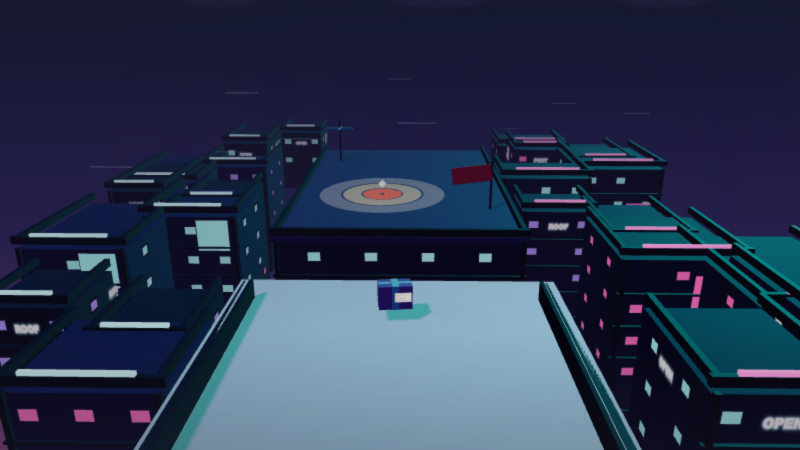
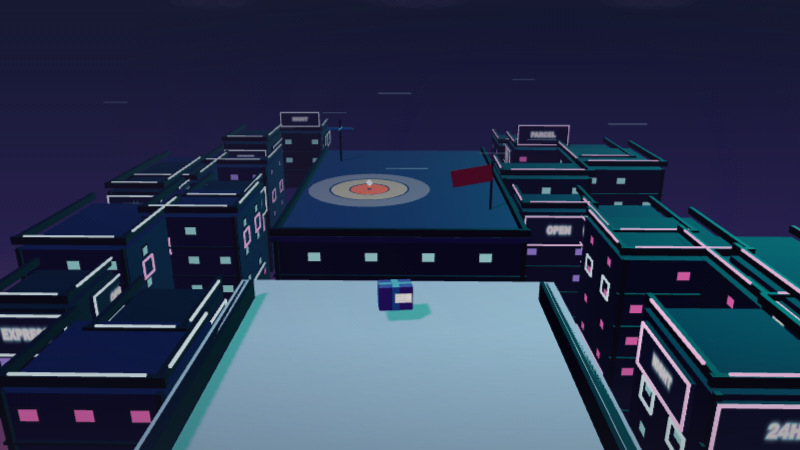
Brighten the neon district streets

diff --git a/crazygames/world.js b/crazygames/world.js
@@ -618,28 +618,40 @@ function addArchitectureDetails(group, kind, width, height, depth, options) {
   } else if (kind === 'neon') {
     const neonColor = index % 2 ? 0xff4fa3 : 0x35f5e4
     if (streetFace && index % 4 < 2) {
-      const labels = ['OPEN', 'POST', 'ROOF']
-      const texture = makeNeonSignTexture(labels[index % labels.length])
-      const sideSign = new THREE.Mesh(
-        new THREE.PlaneGeometry(Math.min(2.4, depth * 0.58), Math.min(0.9, height * 0.17)),
-        new THREE.MeshBasicMaterial({ map: texture, transparent: true, depthWrite: false }),
-      )
-      sideSign.position.set(streetFace * (width / 2 + 0.095), top - 0.72, 0)
-      sideSign.rotation.y = streetFace > 0 ? Math.PI / 2 : -Math.PI / 2
-      group.add(sideSign)
-      const frontSign = new THREE.Mesh(
-        new THREE.PlaneGeometry(Math.min(2.5, width * 0.76), Math.min(0.9, height * 0.17)),
-        new THREE.MeshBasicMaterial({ map: texture, transparent: true, depthWrite: false }),
-      )
-      frontSign.position.set(0, top - 0.72, depth / 2 + 0.095)
-      group.add(frontSign)
-    } else {
-      const signMaterial = new THREE.MeshBasicMaterial({ color: neonColor })
-      const sign = new THREE.Mesh(new THREE.PlaneGeometry(Math.min(1.35, width * 0.44), Math.min(2.0, height * 0.34)), signMaterial)
-      sign.position.set(width * 0.24, Math.min(top - 0.8, 1.2), depth / 2 + 0.085)
-      group.add(sign)
+      const labels = ['NIGHT', 'PARCEL', 'EXPRESS', '24H', 'AIRMAIL', 'OPEN']
+      const frontSignY = index < 2 ? top + 1.02 : top - 0.86
+      addNeonBillboard(group, {
+        text: labels[index % labels.length],
+        width: Math.min(3.45, width * 0.9),
+        height: Math.min(1.26, height * 0.2),
+        color: neonColor,
+        position: [0, frontSignY, depth / 2 + 0.13],
+        axis: 'front',
+      })
+      addNeonBillboard(group, {
+        text: labels[(index + 3) % labels.length],
+        width: Math.min(3.15, depth * 0.68),
+        height: Math.min(1.12, height * 0.18),
+        color: neonColor,
+        position: [streetFace * (width / 2 + 0.13), top - 0.8, 0],
+        axis: streetFace > 0 ? 'right' : 'left',
+      })
     }
-    if (roofDecor) sceneBox(group, [width * 0.7, 0.12, 0.12], neonColor, [0, top + 0.55, depth / 2], { emissive: neonColor, emissiveIntensity: 1.8, castShadow: false })
+    if (roofDecor) {
+      sceneBox(group, [width * 0.82, 0.075, 0.075], neonColor, [0, top + 0.51, depth / 2], { emissive: neonColor, emissiveIntensity: 3.4, castShadow: false })
+      if (streetFace) sceneBox(group, [0.075, 0.075, depth * 0.78], neonColor, [streetFace * (width / 2 + 0.04), top + 0.5, 0], { emissive: neonColor, emissiveIntensity: 3.4, castShadow: false })
+    }
+    if (streetFace) {
+      const opposite = index % 2 ? 0x35f5e4 : 0xff4fa3
+      const windowY = top - Math.min(2.15, height * 0.32)
+      for (const z of [-depth * 0.23, depth * 0.23]) {
+        sceneBox(group, [0.075, 0.68, 0.075], opposite, [streetFace * (width / 2 + 0.05), windowY, z - 0.42], { emissive: opposite, emissiveIntensity: 2.8, castShadow: false })
+        sceneBox(group, [0.075, 0.68, 0.075], opposite, [streetFace * (width / 2 + 0.05), windowY, z + 0.42], { emissive: opposite, emissiveIntensity: 2.8, castShadow: false })
+        sceneBox(group, [0.075, 0.075, 0.9], opposite, [streetFace * (width / 2 + 0.05), windowY + 0.34, z], { emissive: opposite, emissiveIntensity: 2.8, castShadow: false })
+        sceneBox(group, [0.075, 0.075, 0.9], opposite, [streetFace * (width / 2 + 0.05), windowY - 0.34, z], { emissive: opposite, emissiveIntensity: 2.8, castShadow: false })
+      }
+      sceneBox(group, [0.075, 0.08, depth * 0.82], neonColor, [streetFace * (width / 2 + 0.055), -top + 0.34, 0], { emissive: neonColor, emissiveIntensity: 3.1, castShadow: false })
+    }
   } else if (kind === 'glasshouse') {
     if (roofDecor) {
       const glass = sceneBox(group, [width * 0.64, 0.78, depth * 0.42], 0x9adcec, [0, top + 0.52, 0], { opacity: 0.38, castShadow: false })
@@ -665,6 +677,35 @@ function addArchitectureDetails(group, kind, width, height, depth, options) {
       group.add(cap)
     }
   }
+}
+
+function addNeonBillboard(group, { text, width, height, color, position, axis }) {
+  const isFront = axis === 'front'
+  const panelSize = isFront ? [width + 0.24, height + 0.24, 0.12] : [0.12, height + 0.24, width + 0.24]
+  const panel = sceneBox(group, panelSize, 0x080a1c, position, { emissive: 0x12152c, emissiveIntensity: 0.8, castShadow: false })
+  const plane = new THREE.Mesh(
+    new THREE.PlaneGeometry(width, height),
+    new THREE.MeshBasicMaterial({ map: makeNeonSignTexture(text), transparent: true, depthWrite: false }),
+  )
+  plane.position.set(...position)
+  if (isFront) {
+    plane.position.z += 0.071
+  } else {
+    plane.position.x += axis === 'right' ? 0.071 : -0.071
+    plane.rotation.y = axis === 'right' ? Math.PI / 2 : -Math.PI / 2
+  }
+  group.add(plane)
+
+  const tubeOptions = { emissive: color, emissiveIntensity: 4.2, castShadow: false }
+  if (isFront) {
+    for (const y of [-height / 2 - 0.08, height / 2 + 0.08]) sceneBox(group, [width + 0.22, 0.075, 0.08], color, [position[0], position[1] + y, position[2] + 0.09], tubeOptions)
+    for (const x of [-width / 2 - 0.08, width / 2 + 0.08]) sceneBox(group, [0.075, height + 0.22, 0.08], color, [position[0] + x, position[1], position[2] + 0.09], tubeOptions)
+  } else {
+    const faceX = position[0] + (axis === 'right' ? 0.09 : -0.09)
+    for (const y of [-height / 2 - 0.08, height / 2 + 0.08]) sceneBox(group, [0.08, 0.075, width + 0.22], color, [faceX, position[1] + y, position[2]], tubeOptions)
+    for (const z of [-width / 2 - 0.08, width / 2 + 0.08]) sceneBox(group, [0.08, height + 0.22, 0.075], color, [faceX, position[1], position[2] + z], tubeOptions)
+  }
+  panel.renderOrder = 1
 }
 
 function addDistrictEnvironment(group, kind) {
@@ -702,6 +743,14 @@ function addDistrictEnvironment(group, kind) {
     const stripe = new THREE.Mesh(new THREE.BoxGeometry(0.08, 0.01, 1.3), new THREE.MeshBasicMaterial({ color: spec.streetStripe }))
     stripe.position.set(0, -8.76, 8 - i * 4.6)
     group.add(stripe)
+  }
+  if (kind === 'neon') {
+    for (const side of [-1, 1]) {
+      for (let index = 0; index < 10; index += 1) {
+        const color = (index + (side > 0 ? 1 : 0)) % 2 ? 0xff4fa3 : 0x35f5e4
+        sceneBox(group, [0.1, 0.06, 1.75], color, [side * 3.82, -8.71, 8.5 - index * 4.15], { emissive: color, emissiveIntensity: 4.4, castShadow: false })
+      }
+    }
   }
 }
 

diff --git a/doc/crazygames-review.md b/doc/crazygames-review.md
@@ -1,9 +1,9 @@
-# Rooftop Delivery — Crazy Games 第四轮审图修正
+# Rooftop Delivery — Crazy Games 第五轮 Neon 审图修正
 
 ## 本轮范围
 
 - 分支：`cursor/crazygames-guest-7e22`
-- 起点：`cadf1c7`
+- 起点：`ce0b90e`
 - 只修改 Crazy Games 隔离代码、QA 与文档；没有修改宿主运行代码，没有重写抛掷结算。
 - 10 条固定路线、七步教学、八项升级与夜间合约全部保留；没有新增路线、广告、内购或账号。
 
@@ -20,7 +20,7 @@
 | depot | warehouse | 两侧临街装卸门/雨棚与屋顶货箱 |
 | laundry | residential | 两侧住宅顶层窗与屋沿之间的彩色晾衣 |
 | garden | courtyard | 两侧楼顶花箱、矮树与临街窗台绿植 |
-| neon | sign-tower | 两侧楼面可读 `OPEN / POST / ROOF` 字牌、青粉灯带与窗光 |
+| neon | sign-tower | 左右与后方可读 `NIGHT / PARCEL / EXPRESS / 24H / AIRMAIL / OPEN` 大字牌、灯管边框、成排屋沿/窗框/街沿灯管 |
 | glasshouse | glassworks | 两侧屋顶成排透明玻璃棚和框架 |
 | beacon | harbor | 侧后方楼顶灯塔、扫光与沿街暖灯 |
 
@@ -30,6 +30,13 @@
 
 上一轮集中在收件屋顶的箱堆/装卸牌、整排晾衣、四组花箱、`NIGHT POST` 主牌、整座玻璃棚和灯塔已全部移除。收件屋顶现在只保留落点圈、玩法动物、风旗，以及一个水箱或天线；Route 8/10 的两个落点均无遮挡。主题氛围由左右 22 栋街楼与后方楼群承担。
 
+## Neon 灯牌与灯管
+
+- 左右立面与后方楼顶加入多块短大字广告牌；后方两块抬高到屋顶线，800×450 静帧中可与左右牌同时识别。
+- 每块牌由暗色实体底板、发光文字面和四根独立 emissive 灯管组成，不再是深色板上的小字。
+- 青/粉灯管成排铺在侧楼屋沿、临街窗框、建筑底边和街面两侧；截面保持细管比例，和发光窗面清楚区分。
+- 收件屋顶未增加招牌或灯管，仍只保留垫圈、旗子和一件小型天线。
+
 ## 既有特殊规则保持
 
 - Route 6 / 9 / 10：翻风静帧改在 180ms 权威风提交后拍摄。旗帜以旗杆为原点左右翻面，HUD 箭头使用相同符号；三关均自动断言 `wind = HUD = flag`，且仍只翻转一次。
@@ -37,18 +44,11 @@
 
 ## 800×450 最终截图
 
-六个场景的截图在 QA harness 中隐藏 HUD，直接验证只看街景仍能辨认：
+本轮只改 neon，因此只复拍一张；其他五景证据与代码均不改：
 
-- `_qa/ui/crazygames-scenes/800x450-depot.png`
-- `_qa/ui/crazygames-scenes/800x450-laundry.png`
-- `_qa/ui/crazygames-scenes/800x450-garden.png`
 - `_qa/ui/crazygames-scenes/800x450-neon.png`
-- `_qa/ui/crazygames-scenes/800x450-glasshouse.png`
-- `_qa/ui/crazygames-scenes/800x450-beacon.png`
-- 风向翻转：`_qa/ui/crazygames-final/800x450-wind-flip.png`
-- 易碎箱裂开：`_qa/ui/crazygames-final/800x450-fragile.png`
 
-机器可读断言：`_qa/crazygames-review.json`。
+专项脚本：`_qa/crazygames-neon-review.mjs`。
 
 ## 验证结果
 
@@ -56,6 +56,7 @@
 - Chromium 800×450：六景及两项反馈图无溢出、页面异常或控制台错误。
 - 六景共享已恢复的连续街道骨架；六个建筑族与建筑主色均唯一，差异来自可见结构而非移动楼距或只换色。
 - 六张无 HUD 截图中，主题物件分布在左右/后方楼体，收件屋顶没有大型主题陈列；垫圈与旗帜保持清楚。
+- neon 专项 Chromium 截图为 800×450，无溢出、裁切、页面异常或控制台错误；固定 `gap=4 / streetWidth=8 / skylineCount=22` 未变。
 - Route 6 / 9 / 10：翻转完成后权威风、HUD 箭头和旗帜方向逐关一致。
 - Route 7 普通垫圈：`misses=1`、`delivered=0`；结果浮字与箱体不重叠，顶面裂纹可见。
 
@@ -77,5 +78,6 @@
 - P1 “31e9daf 把街道拆成空地上的孤立方块”已通过恢复 `fa376ab` 固定空间与隐藏 HUD 的六张复拍关闭。
 - P1 “楼体只是白点方块/同模型换色”已通过楼层、窗框、女儿墙和六类专属建筑结构关闭。
 - P1 “主题装饰都堆在落点屋顶”已通过侧街附着规则与六张无 HUD 复拍关闭。
+- P1 “neon 只有小字贴片、看不出灯管”已通过大字牌、实体四边灯管、屋沿/窗框/街沿灯管与专项复拍关闭。
 - P1 “翻风静帧方向未提交”和“裂箱浮字遮挡”已用最终静帧与浏览器断言关闭。
 - `comprehension unverified`：本轮只改视觉辨识与反馈证据，仍没有全新真人复述玩法三问合同的证据。

diff --git a/doc/technical.md b/doc/technical.md
@@ -81,6 +81,7 @@ Three.js 场景由 `makeBuilding()`、`addBackgroundCity()`、`addRoofDetails()`
 - `crazygames/world.js` 用 Three.js 基础几何为六景生成不同楼高、墙色、窗光、水箱/天线与专属物件；公共风旗和 laundry 衣物按可见风向倾斜。纸箱使用两条相交胶带与 Canvas 标签，首次接触屋顶触发 380ms 压扁/回弹，裂纹使用箱体正面与顶面的深色 Plane 几何。
 - 第三轮审图把空间恢复为 `fa376ab` 的固定骨架：发件楼中心 `z=5`、收件楼中心 `z=-11`、街宽 8，并按原公式在左右各放 11 栋连续街楼。`makeBuilding()` 在这个共同空间内按楼高程序化生成楼层线、窗框/窗面与女儿墙，再由 `addArchitectureDetails()` 穷举 warehouse、residential、courtyard、sign-tower、glassworks、harbor 六类结构；不再为六景改变楼距或把楼拆成孤立体。物理落点边界、投掷积分器和 10 条路线数据不变。neon 的 `NIGHT POST` 使用运行时 CanvasTexture 与两盏程序化点光源，不依赖外部模型或图片。
 - 第四轮审图把主题设施从 `createLevelScene()` 的收件屋顶陈列移入 `addArchitectureDetails()` 的 22 栋侧街建筑。`streetFace` 决定装卸门、晾衣、窗台花箱和霓虹字牌朝向街谷，`roofDecor` 明确禁止发件楼与收件楼生成花园、灯带或玻璃棚；侧楼仍可生成货箱、花箱、玻璃棚和港区灯，beacon 的灯塔固定在后方侧楼。霓虹 `OPEN / POST / ROOF` 字牌共享缓存的运行时 CanvasTexture。收件屋顶仅保留既有风旗与一个水箱或天线，动物和双落点仍由玩法层生成。
+- 第五轮只补 neon：`addNeonBillboard()` 为前向/侧向楼面广告牌生成暗底、CanvasTexture 发光大字和四根独立 emissive BoxGeometry 边管；侧楼另生成屋沿管、临街窗框管和底层沿街管，`addDistrictEnvironment()` 在固定街宽内追加两排街面灯管。后方 index 0/1 的广告牌抬到屋顶线上方，其余广告牌留在左右高层立面。`_qa/crazygames-neon-review.mjs` 只启动 Route 6、隐藏 HUD、断言固定街道骨架/800×450 无溢出/无控制台错误并覆盖单张 neon 证据，不重拍其他五景。
 - 风旗几何以旗杆为缩放原点，`scale.x` 的正负直接表示当前可见风向；HUD 箭头同样以 `scaleX(±1)` 表示方向。QA 在 180ms 翻转提交后分别检查路线 6、9、10 的权威风、HUD 箭头和旗帜方向相同。易碎箱改用正面与顶面的厚 Plane 裂纹，结果浮字使用独立 `is-fragile` 位置避免遮挡箱体。
 - `_qa/crazygames-rules.mjs` 检查路线数量/规则标记、夜间六景循环、副落点分类、坠街可见时段和 10 条路线的规划落点；`_qa/crazygames-review.mjs` 在真实 Chromium 中检查 800×450 无裁切、六类建筑身份唯一、六景均保持 `gap=4 / streetWidth=8 / skylineCount=22` 的固定街道骨架、易碎失误、翻风视觉先行/单次限制、双落点与控制台错误，并生成最终截图。
 - `?playtest=1` 仅为本地 QA 暴露 `window.__cg` 状态与展示钩子；普通游客入口不创建该对象。

diff --git a/doc/requirements.md b/doc/requirements.md
@@ -97,5 +97,6 @@
 - **场景轮换**：`depot`、`laundry`、`garden`、`neon`、`glasshouse`、`beacon` 六种程序化屋顶必须拥有不同楼高/轮廓、可读窗户、水箱或天线，以及对应专属物件。夜间合约只轮换这六种已装扮场景，不创建第七座城市，也不新增固定路线。
 - **街道空间合同**：恢复并锁定 `fa376ab` 的相机和街道骨架：玩家站在近处屋顶，落点屋顶在固定宽度的街对面，左右各 11 栋楼连续组成街墙。六景不得改变前后屋顶距离、把落点楼推远或让建筑悬在空地上；场景身份来自楼层、窗户、女儿墙和不同建筑类型，而非移动街道骨架或只换颜色。800×450 隐藏 HUD 后仍能靠仓库/住宅/庭院/招牌楼/玻璃棚/灯塔辨认场景。
 - **装饰分布合同**：场景专属物件必须铺到左右街楼和后方建筑：depot 的装卸门/货箱、laundry 的临街晾衣、garden 的楼顶/窗台花箱、neon 的楼面文字招牌、glasshouse 的侧楼玻璃棚、beacon 的侧后方灯塔与屋顶灯。落点屋顶只保留垫圈、风旗、玩法动物以及至多一个水箱或天线，不得再作为主题展示台；第 8/10 关两个落点必须同时完整可读。
+- **neon 灯管合同**：左右和后方楼面必须同时出现多块 800×450 可读的大字招牌。招牌由暗底、发光文字和独立四边灯管组成；楼沿、临街窗框、底层街沿及街面两侧必须使用成排的细灯管几何，不能用无边框亮色矩形冒充霓虹。所有灯牌和灯管均禁止回到落点屋顶。
 - **包裹反馈**：所有皮肤保留纸箱体、横纵十字胶带和可读标签。落在屋顶后先压扁再回弹，同时弹出本次小费；滑出楼沿后持续翻滚坠向街道，不能瞬间隐藏。`prefers-reduced-motion` 下缩短压扁/回弹幅度，但裂纹、结果文字与小费仍清楚可见。
 - **验证实验**：分别回放第 7 关中心/垫边、第 6/9/10 关每件仅一次翻风且视觉先行、第 8/10 关主副落点。通过信号是三类落点分类稳定、翻风不重复、权威弹道仍可规划；停止信号是任一路线无解、目标重叠或提示遮挡操作区。

diff --git a/doc/visual.md b/doc/visual.md
@@ -22,7 +22,8 @@
 
 - 公共天空与邮政 UI 延续暮紫 `#5B5E8B`、纸白 `#FFF5DE`、珊瑚 `#F05D4E`、风青 `#0F7F78`、提示金 `#F2C14E`。
 - 六场景使用独立强调色：depot 铁锈橙、laundry 天蓝、garden 叶绿、neon 青紫、glasshouse 冷蓝、beacon 金黄深海军。
-- 六景同时切换天空渐变、雾色、半球光、主光、轮廓光、街道与窗光；禁止让公共紫灰背景重新覆盖场景身份。neon 使用深靛天空、青/粉窗光和可读的 `NIGHT POST` 灯牌；beacon 保持最深天空，只让窗灯与灯塔成为高亮。
+- 六景同时切换天空渐变、雾色、半球光、主光、轮廓光、街道与窗光；禁止让公共紫灰背景重新覆盖场景身份。neon 使用深靛天空、青/粉窗光和成组可读的大字灯牌；beacon 保持最深天空，只让窗灯与灯塔成为高亮。
+- neon 的文字系统使用 `NIGHT / PARCEL / EXPRESS / 24H / AIRMAIL / OPEN` 六组短大字，分布在左右楼面与后方屋顶广告牌。每块牌有四根独立发光边管；青/粉灯管同时沿屋顶边、临街窗框、建筑底边和街面成排延伸，保持细管截面，禁止退化为纯色面片。
 - bullseye 用珊瑚色；副投递圈用纸白/风青并带不同中心标记，不能只靠颜色区分。
 
 ## 4. Typography
